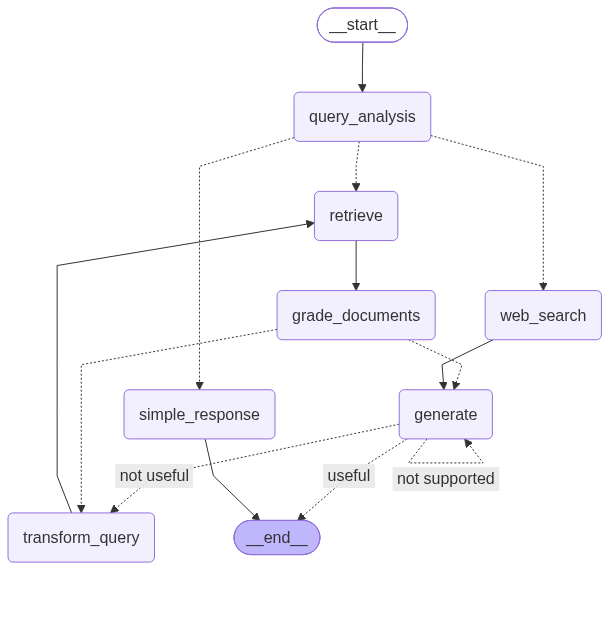
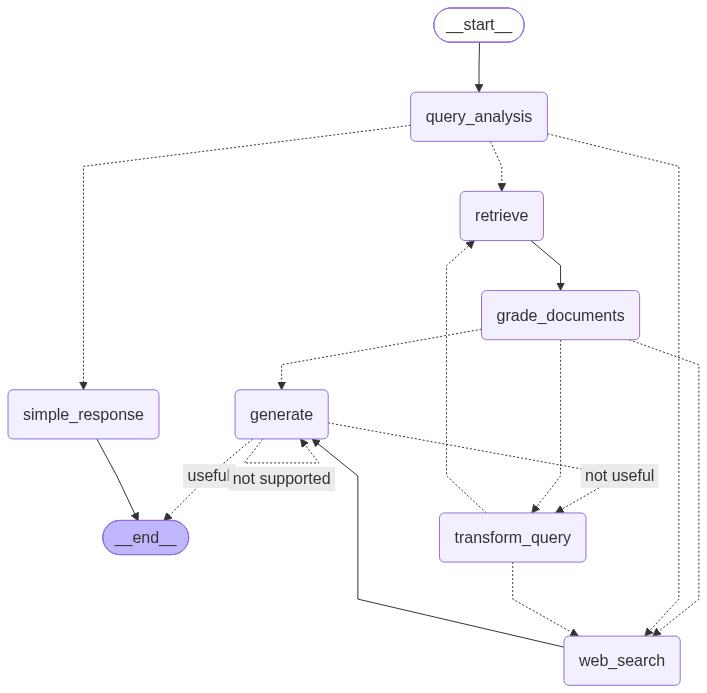
feat: enhance query transformation and routing logic for improved document retrieval

diff --git a/Day2/04_agentic_rag_websearch/nodes.py b/Day2/04_agentic_rag_websearch/nodes.py
@@ -114,7 +114,7 @@ def retrieve(state: State):
         context += f"Document {idx + 1}:\n{doc.page_content}\n{doc.metadata}\n"
         print(f"Retrieved Document {idx + 1}: {doc.page_content[:100]}...")
 
-    return {"document": context, "question": question}
+    return {"document": context, "question": question, "source": "rag"}
 
 
 def web_search(state: State):
@@ -150,7 +150,8 @@ def web_search(state: State):
 
     return {
         "document": context,
-        "question": question
+        "question": question,
+        "source": "web"
     }
 
 
@@ -252,17 +253,33 @@ def generate(state: State):
 def transform_query(state: State):
     """
     검색 성능 향상을 위해 질문을 재작성합니다.
+    재시도할 검색 대상(RAG/웹)에 맞춰 재작성 지침을 다르게 적용합니다.
     """
     print("##### TRANSFORM QUERY #####")
 
     question = state["question"]
+    source = state.get("source", "rag")
+
+    if source == "web":
+        rewrite_guidance = (
+            "이 질문은 웹 검색 엔진에 사용됩니다. "
+            "검색엔진이 결과를 잘 찾을 수 있도록 핵심 키워드 중심의 간결한 검색어로 재작성하세요."
+        )
+    else:
+        rewrite_guidance = (
+            "이 질문은 벡터스토어 문서 검색에 사용됩니다. "
+            "문서에 사용됐을 법한 용어와 의미를 포함해 검색에 최적화된 문장으로 재작성하세요."
+        )
 
     # 쿼리 재작성
     llm = _get_llm()
     question_rewriter = QUERY_REWRITER_PROMPT | llm
-    better_question = question_rewriter.invoke({"question": question})
+    better_question = question_rewriter.invoke({
+        "question": question,
+        "rewrite_guidance": rewrite_guidance
+    })
 
-    print(f"Original Question: {question}")
+    print(f"Original Question: {question} (source: {source})")
     print(f"Better Question: {better_question.content}")
 
     return {
@@ -275,6 +292,19 @@ def transform_query(state: State):
 # ===============================
 # 엣지 조건 함수
 # ===============================
+
+def route_after_transform_query(state: State) -> Literal["retrieve", "web_search"]:
+    """
+    쿼리 재작성 후, document를 만들어낸 원래 출처(source)로 되돌아갑니다.
+    web_search에서 온 경우 web_search로, retrieve에서 온 경우 retrieve로 재시도합니다.
+    """
+    if state.get("source") == "web":
+        print("---ROUTE DECISION: RETRY WEB SEARCH---")
+        return "web_search"
+    else:
+        print("---ROUTE DECISION: RETRY RAG RETRIEVE---")
+        return "retrieve"
+
 
 def route_question(state: State) -> Literal["simple_response", "retrieve", "web_search"]:
     """
@@ -298,19 +328,24 @@ def route_question(state: State) -> Literal["simple_response", "retrieve", "web_
         return "web_search"
 
 
-def decide_to_generate(state: State) -> Literal["transform_query", "generate"]:
+def decide_to_generate(state: State) -> Literal["transform_query", "generate", "web_search"]:
     """
-    문서 관련성에 따라 답변 생성 또는 쿼리 재작성을 결정합니다.
-    관련성 있음 -> generate, 관련성 없음 -> transform_query
+    문서 관련성에 따라 답변 생성/쿼리 재작성/웹 검색 보강을 결정합니다.
+    - 관련성 있음 -> generate
+    - 관련성 없고 재시도 여유 있음 -> transform_query (쿼리 재작성 후 재검색)
+    - 관련성 없고 재시도 소진 -> web_search (RAG 문서로 부족하므로 웹 검색으로 context 보강, Corrective RAG)
     """
     print("##### ASSESS GRADED DOCUMENTS #####")
 
-    if state["document"] == "" and state.get("retry_num", 0) < 2:
+    if state["document"] != "":
+        print("---DECISION: GENERATE---")
+        return "generate"
+    elif state.get("retry_num", 0) < 2:
         print("---DECISION: TRANSFORM QUERY---")
         return "transform_query"
     else:
-        print("---DECISION: GENERATE---")
-        return "generate"
+        print("---DECISION: RAG DOCUMENT NOT FOUND, FALLBACK TO WEB SEARCH---")
+        return "web_search"
 
 
 def grade_generation_v_documents_and_question(state: State) -> Literal["useful", "not useful", "not supported"]:

diff --git a/Day2/04_agentic_rag_websearch/graph.py b/Day2/04_agentic_rag_websearch/graph.py
@@ -11,6 +11,7 @@ from nodes import (
     transform_query,
     route_question,
     decide_to_generate,
+    route_after_transform_query,
     grade_generation_v_documents_and_question,
 )
 
@@ -23,13 +24,14 @@ def create_agent_graph():
     1. query_analysis: LLM이 질문 의도 분류 (simple/rag/web)
     2. route_question: 분류 결과에 따라 라우팅
        - simple → simple_response → END
-       - rag → retrieve → grade_documents → generate/transform_query
+       - rag → retrieve → grade_documents → generate/transform_query/web_search
        - web → web_search → generate
-    3. transform_query: 쿼리 재작성 후 retrieve로 루프백
+    3. transform_query: 쿼리 재작성 후 원래 문서를 만들어낸 노드(retrieve 또는 web_search)로 루프백 (최대 2회)
+       RAG 재작성 후에도 관련 문서를 못 찾으면 web_search로 context 보강 (Corrective RAG)
     4. generate → grade_generation_v_documents_and_question: 환각/유용성 평가
        - not supported → generate (재생성)
        - useful → END (종료)
-       - not useful → transform_query (쿼리 재작성)
+       - not useful → transform_query (쿼리 재작성 후 source에 따라 retrieve/web_search로 재시도)
     """
     graph_builder = StateGraph(State, input_schema=InputState, output_schema=OutputState)
 
@@ -68,13 +70,21 @@ def create_agent_graph():
         "grade_documents",
         decide_to_generate,
         {
-            "transform_query": "transform_query",  # 관련성 낮음 → 쿼리 재작성
+            "transform_query": "transform_query",  # 관련성 낮음, 재시도 여유 있음 → 쿼리 재작성
+            "web_search": "web_search",             # 관련성 낮음, 재시도 소진 → 웹 검색으로 context 보강
             "generate": "generate",                # 관련성 높음 → 답변 생성
         },
     )
 
-    # transform_query → retrieve (쿼리 재작성 후 다시 검색)
-    graph_builder.add_edge("transform_query", "retrieve")
+    # transform_query → source에 따라 retrieve 또는 web_search로 재시도
+    graph_builder.add_conditional_edges(
+        "transform_query",
+        route_after_transform_query,
+        {
+            "retrieve": "retrieve",       # RAG 문서에서 온 경우 → 다시 RAG 검색
+            "web_search": "web_search",   # 웹 검색에서 온 경우 → 다시 웹 검색
+        },
+    )
 
     # web_search → generate (웹 검색 결과로 바로 답변 생성)
     graph_builder.add_edge("web_search", "generate")

diff --git a/Day2/04_agentic_rag_websearch/prompts.py b/Day2/04_agentic_rag_websearch/prompts.py
@@ -89,16 +89,20 @@ ANSWER_GRADER_PROMPT = ChatPromptTemplate.from_template(
 )
 
 
-# 쿼리 재작성 프롬프트
+# 쿼리 재작성 프롬프트 (검색 대상에 따라 재작성 지침이 달라짐)
 QUERY_REWRITER_PROMPT = ChatPromptTemplate.from_template(
     """
-    당신은 입력된 질문을 벡터스토어 검색에 최적화된 더 나은 버전으로 변환하는 질문 재작성자입니다.
+    당신은 입력된 질문을 더 나은 검색 쿼리로 변환하는 질문 재작성자입니다.
     입력을 보고 근본적인 의미적 의도를 추론하세요.
 
     <question>
     {question}
     </question>
 
-    위 질문을 개선하여 한국어로 재작성하세요.
+    <guidance>
+    {rewrite_guidance}
+    </guidance>
+
+    위 지침에 따라 질문을 개선하여 한국어로 재작성하세요.
     """
 )

diff --git a/Day2/04_agentic_rag_websearch/state.py b/Day2/04_agentic_rag_websearch/state.py
@@ -24,4 +24,5 @@ class State(MessagesState):
     generation: Optional[str]
     document: Optional[str]
     intent: Optional[str]  # 'simple' or 'rag' or 'web' (from query_analysis)
+    source: Optional[str]  # 'rag' or 'web' - document를 만들어낸 노드 (재시도 라우팅용)
     retry_num: int = 0
